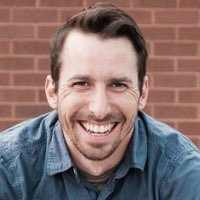
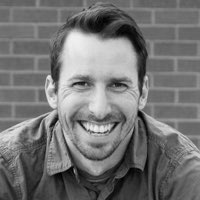
Update testimonial and embed

diff --git a/src/pages/index.js b/src/pages/index.js
@@ -17,14 +17,14 @@ const testimonials = [
     position: 'MoneyClip, Business Development',
     content:
       'Our start-up will live or die on brand messaging. We were lucky to find a team that simultaneously wears creative, entrepreneur, and customer hats.',
-    portraitUrl: require('../assets/images/testimonial-alex.jpg'),
+    portraitUrl: require('../assets/images/testimonial-brian.jpg'),
   },
   {
     name: 'Iain',
     position: 'Main St. Bakehouse, Owner',
     content:
       'Renga’s focus, attention to detail, and good design made it an easy experience for all of us. We were very happy with the outcome and have since established a well loved brand in our town.',
-    portraitUrl: require('../assets/images/testimonial-alex.jpg'),
+    portraitUrl: require('../assets/images/testimonial-iain.jpg'),
   },
   {
     name: 'Alex',
@@ -40,15 +40,36 @@ const ReelVideo = () => {
     fitvids();
   });
 
-  return <iframe
-    src="https://player.vimeo.com/video/338827470"
-    width="640"
-    height="480"
-    frameBorder="0"
-    allow="autoplay; fullscreen"
-    allowFullScreen
-  />;
-}
+  return (
+    <div>
+      <div
+        class="wistia_responsive_padding"
+        style={{ paddingTop: '56.25%', position: 'relative' }}>
+        <div
+          className="wistia_responsive_wrapper"
+          style={{ height: '100%', left: 0, position: 'absolute', top: 0, width: '100%'}}>
+          <iframe
+            src="https://fast.wistia.net/embed/iframe/otstly6tor?seo=false&videoFoam=true&autoPlay=true"
+            title="2019 Brand Reel Video"
+            allowtransparency="true"
+            frameborder="0"
+            scrolling="no"
+            className="wistia_embed"
+            name="wistia_embed"
+            allowfullscreen
+            mozallowfullscreen
+            webkitallowfullscreen
+            oallowfullscreen
+            msallowfullscreen
+            width="100%"
+            height="100%"
+          />
+        </div>
+      </div>
+      <script src="https://fast.wistia.net/assets/external/E-v1.js" async />
+    </div>
+  );
+};
 
 const IndexPage = () => {
   const [open, setOpen] = useState(false);

diff --git a/src/assets/globals.css b/src/assets/globals.css
@@ -146,6 +146,8 @@ cite {
 
 [data-reach-dialog-content] {
   width: 95vw;
+  padding: 0;
+  box-shadow: 0 0 15px rgba(0, 0, 0, 0.15);
 }
 
 .HeroIllustrationShapes {
@@ -276,8 +278,8 @@ cite {
   }
 
   [data-reach-dialog-content] {
-    width: 60vw;
-    max-width: 800px;
+    width: 65vw;
+    max-width: 820px;
     max-height: 80vh;
   }
 
